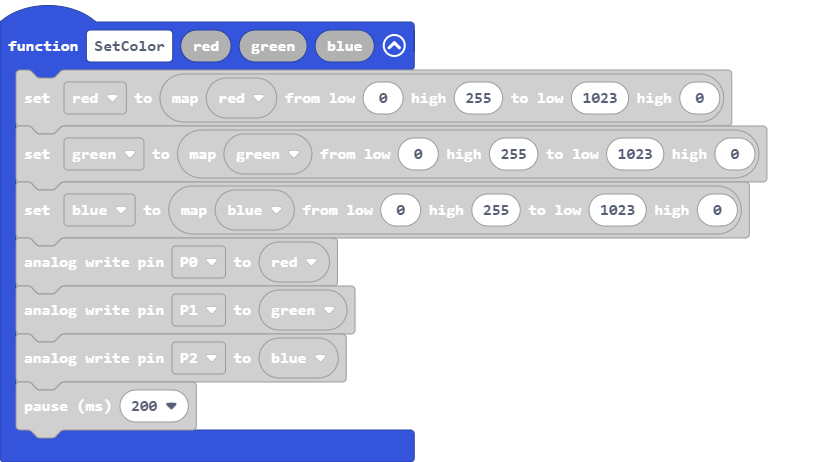
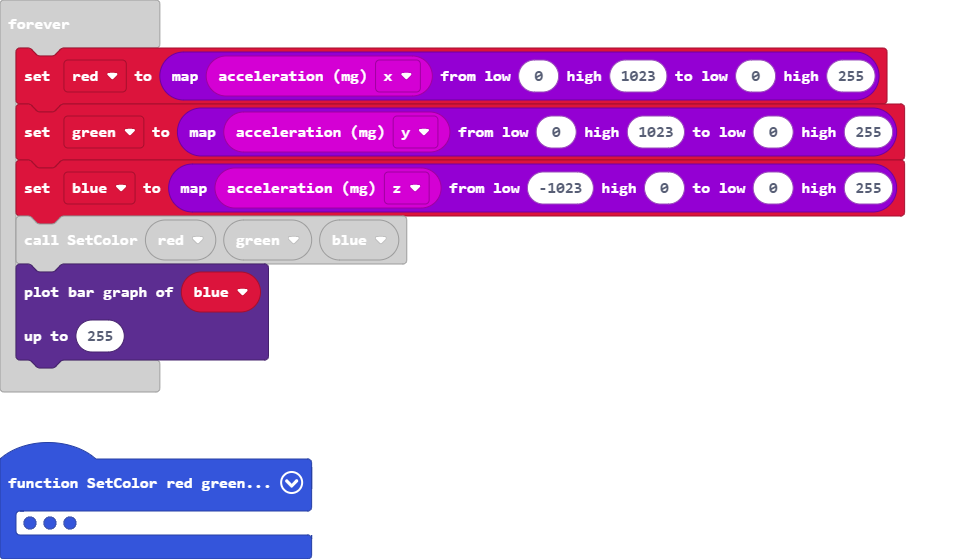
Update main.blocks, main.ts

diff --git a/main.ts b/main.ts
@@ -11,8 +11,12 @@ function SetColor (red: number, green: number, blue: number) {
     basic.pause(200)
 }
 basic.forever(function () {
-    red = 0
-    green = 0
-    blue = 255
+    red = Math.map(input.acceleration(Dimension.X), 0, 1023, 0, 255)
+    green = Math.map(input.acceleration(Dimension.Y), 0, 1023, 0, 255)
+    blue = Math.map(input.acceleration(Dimension.Z), -1023, 0, 0, 255)
     SetColor(red, green, blue)
+    led.plotBarGraph(
+    blue,
+    255
+    )
 })
